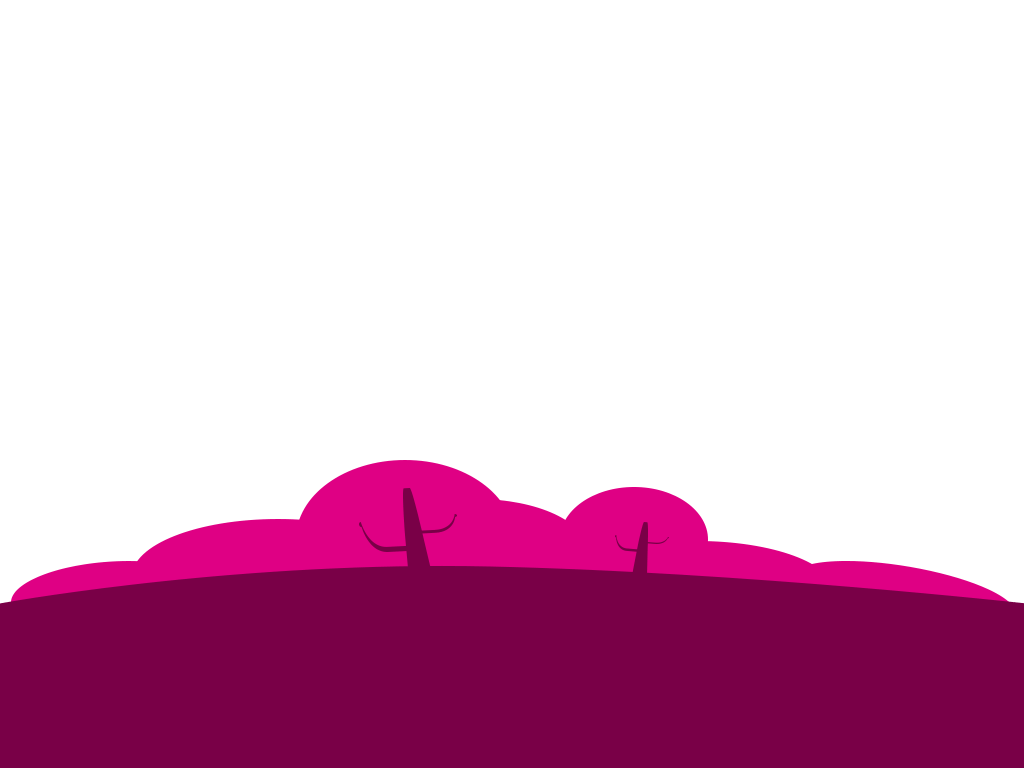
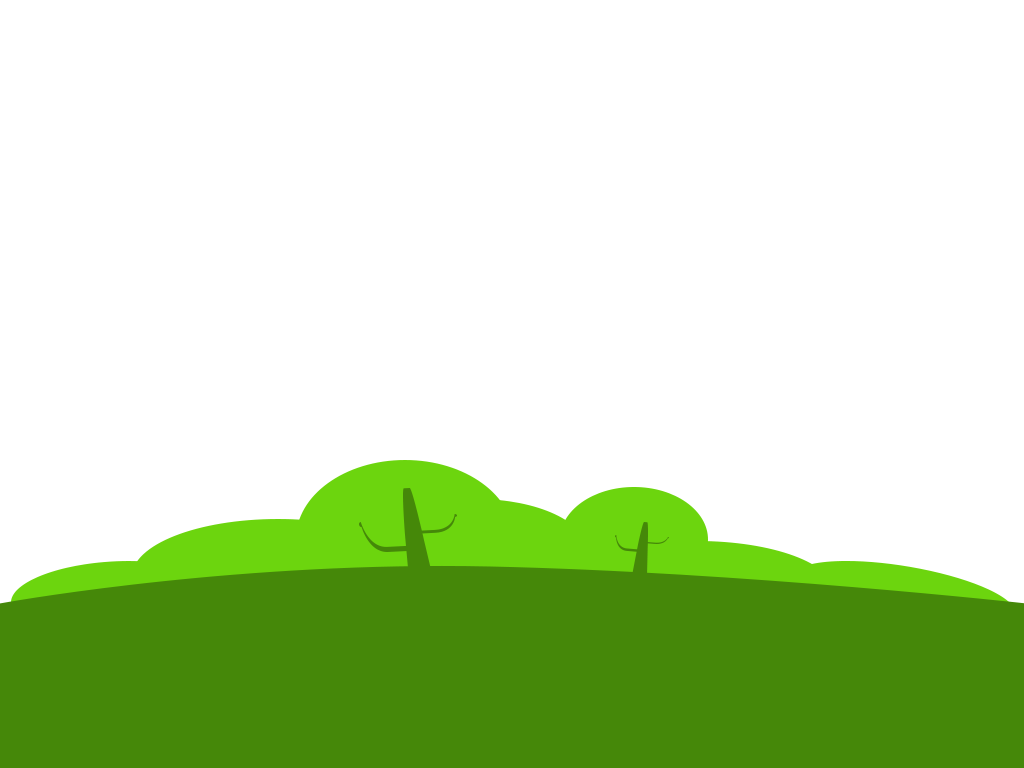
day ready

diff --git a/src/views/interactive-cv/_interactive-cv.scss b/src/views/interactive-cv/_interactive-cv.scss
@@ -11,6 +11,7 @@
   $width_of_sky: 9500px;
   $width_of_ground: calc(#{$width_of_sky} + 500px);
 
+  $light-blue: #fff;
   $med-purple: #65568f;
   $med-orange: #c85316;
   $med-blue: #c0eaff;
@@ -30,11 +31,15 @@
     }
   }
   &.day {
-    .sky { background: url(/assets/interactive-cv/night-sky.png); }
+    .sky { background: $med-blue }
+    .sky { background: linear-gradient($med-blue, $light-blue); }
     .hill { background: url(/assets/interactive-cv/day-hill.png); }
     .grass { background: url(/assets/interactive-cv/day-grass.png); }
+    .stars-clouds { background: url(/assets/interactive-cv/morning-clouds.png); }
     .sun-moon {
       background: url(/assets/interactive-cv/day-sun.png);
+      top: 20%;
+      right: 43%;
     }
   }
   &.evening {
@@ -75,9 +80,11 @@
   }
 
 
-  .sky, .hill, .stars-clouds {
+  .hill, 
+  .sky,
+  .stars-clouds {
     position: absolute;
-    left: -500px;
+    left: -1000px;
     top: 0;
     width: $width_of_sky;
     height: 100%;
@@ -208,6 +215,7 @@
   .grass {
     width: 100%;
     height: 50px;
+    left: -1000px;
     background: url(/assets/interactive-cv/grass.png);
   }
   .ground {

diff --git a/src/views/interactive-cv/InteractiveCvController.js b/src/views/interactive-cv/InteractiveCvController.js
@@ -51,7 +51,7 @@ angular.module("interactiveCv", [])
         function makeBackground(time) {
           $('#interactive-cv')
             .removeClass('day night morning evening')
-            .addClass('morning');
+            .addClass('day');
         }
 
         function getTimeBasedStyleSheet() {

diff --git a/src/global-css/partials/_reset.scss b/src/global-css/partials/_reset.scss
@@ -60,6 +60,8 @@ footer, header, hgroup, menu, nav, section {
 }
 body {
   line-height: 1;
+  height: 100%;
+  overflow: overlay;
 }
 ol, ul {
   list-style: none;
